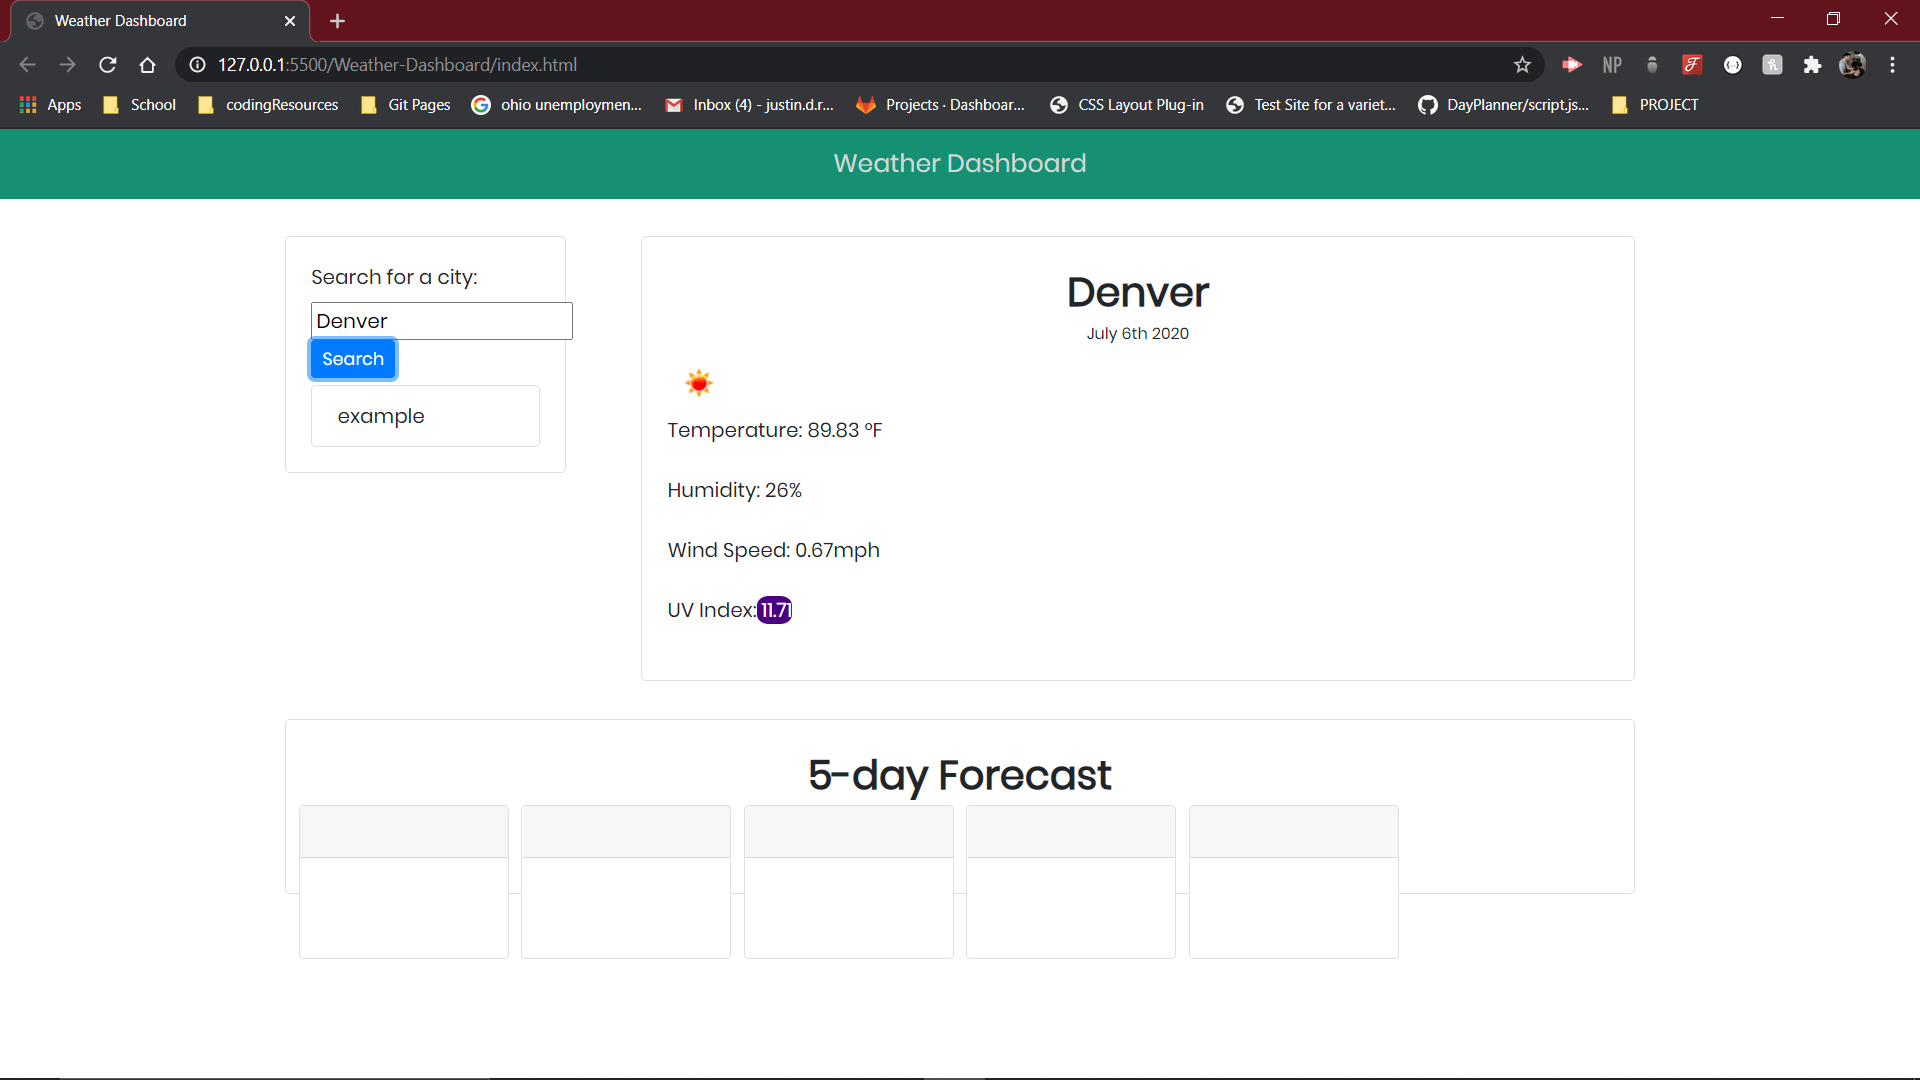
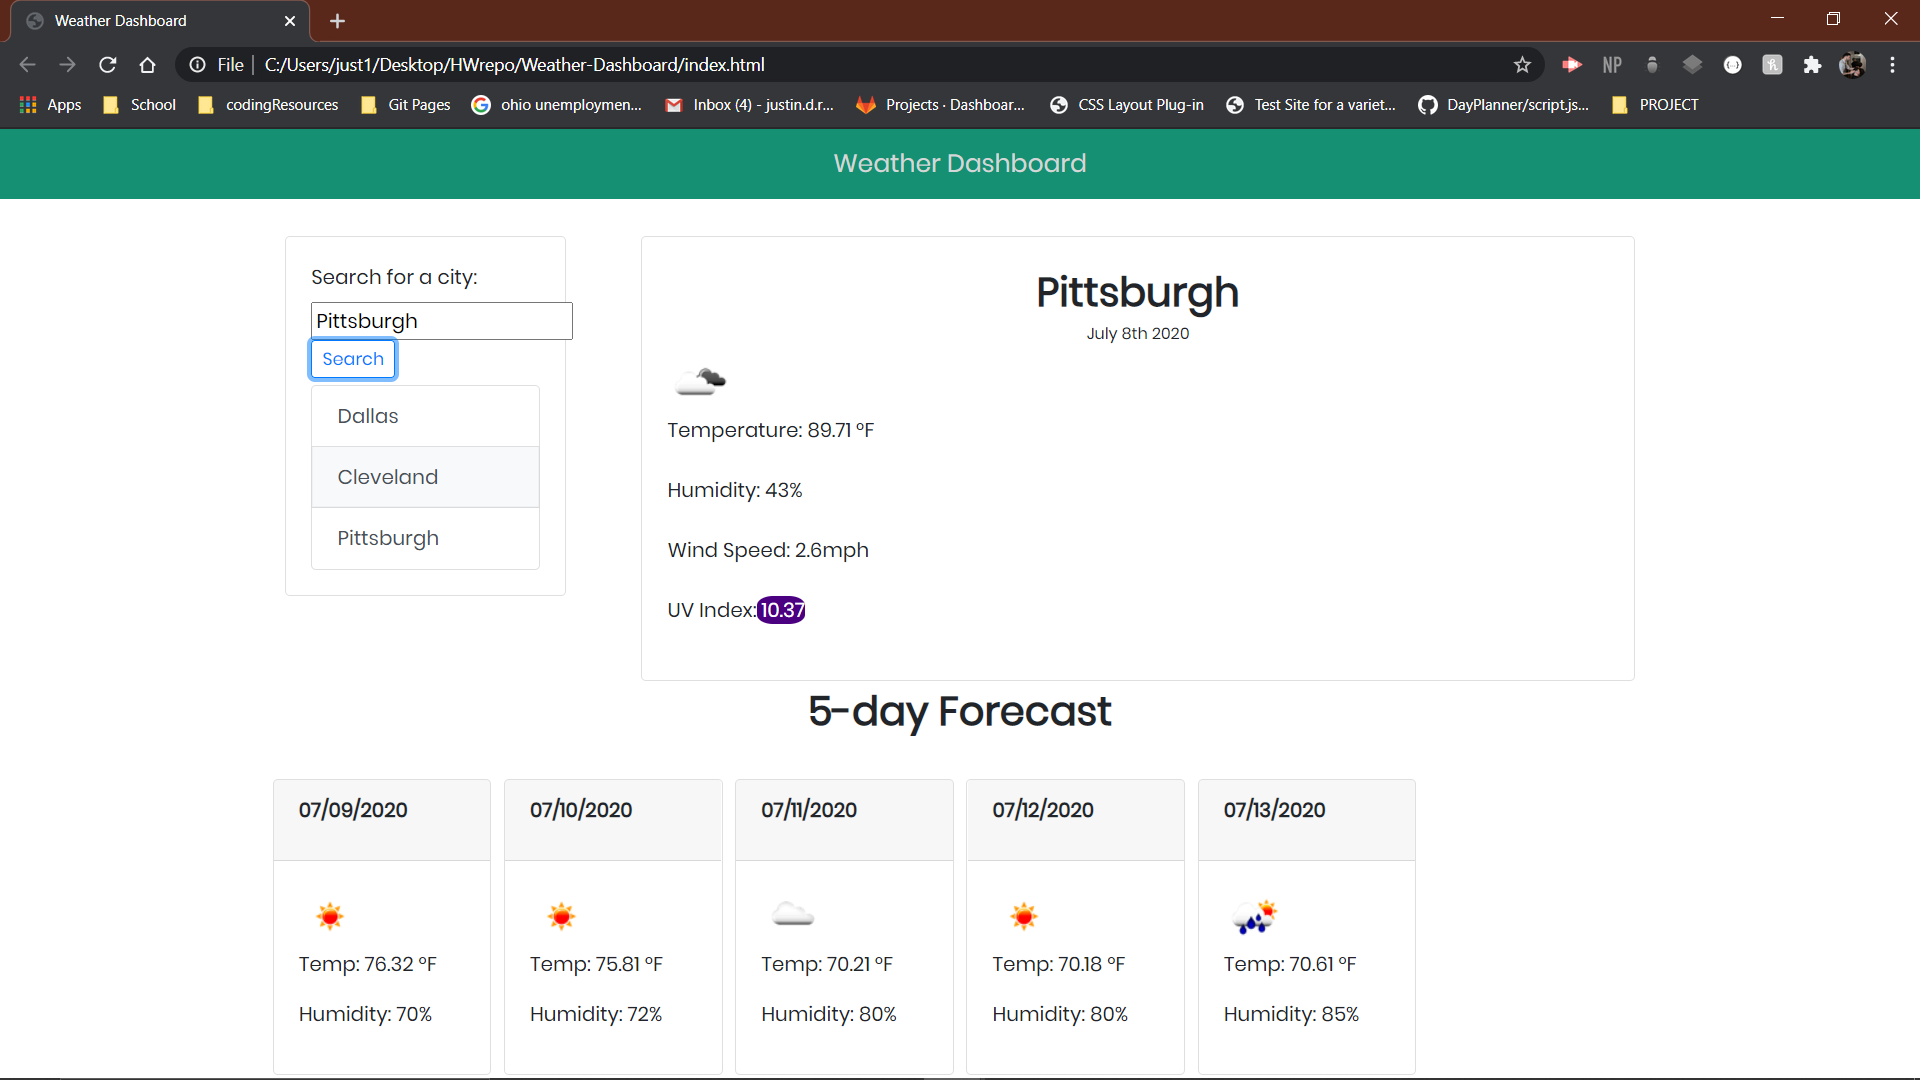
Amended the readme --- fixed issues related to saved searches --- responsiveness needs fine-tuning

diff --git a/script.js b/script.js
@@ -1,14 +1,19 @@
 $(document).ready(function() {
-    
-    // This function displays the weather to the page.
-    const displayCityWeather = () => {
 
-        // Variables
-        var todaysDate = moment().format('MMMM Do YYYY');
+	var todaysDate = moment().format('MMMM Do YYYY');
+	var cityList = $(".list-group");
+	var cityButtons = [];
+
+    // This function displays the weather to the page.
+    var displayCityWeather = (cityName) => {
+		
+		// Global Variables.
+		//cityName = $("#citySearch").val();
+        
         var apiKey = "561936218884bf45974f29319f32b882";
-        var cityName = $("#citySearch").val();
         var queryWeather = "https://api.openweathermap.org/data/2.5/weather?q="+cityName+"&appid="+apiKey;
-        var queryForecast = "https://api.openweathermap.org/data/2.5/forecast?q="+cityName+"&appid="+apiKey;
+		var queryForecast = "https://api.openweathermap.org/data/2.5/forecast?q="+cityName+"&appid="+apiKey;
+		
 
         // This ajax call is used to gather weather data from an API and display it to the page.
         $.ajax({
@@ -87,7 +92,7 @@ $(document).ready(function() {
             url: queryForecast,
             method: "GET"
         }).then(function(responseForecast) {
-						//console.log(responseForecast);
+						console.log(responseForecast);
 
 						//This sets the date for corresponding days to variables.
 						var date1 = moment().add(1, 'days').format("MM/DD/YYYY");
@@ -97,11 +102,11 @@ $(document).ready(function() {
 						var date5 = moment().add(5, 'days').format("MM/DD/YYYY");
 
 						//This sets icons for corresponding days to variables.
-						var icon1 = "https://openweathermap.org/img/w/"+responseForecast.weather[4].icon+".png";
-						var icon2 = "https://openweathermap.org/img/w/"+responseForecast.weather[12].icon+".png";
-						var icon3 = "https://openweathermap.org/img/w/"+responseForecast.weather[20].icon+".png";
-						var icon4 = "https://openweathermap.org/img/w/"+responseForecast.weather[28].icon+".png";
-						var icon5 = "https://openweathermap.org/img/w/"+responseForecast.weather[36].icon+".png";
+						var icon1 = "https://openweathermap.org/img/w/"+responseForecast.list[4].weather[0].icon+".png";
+						var icon2 = "https://openweathermap.org/img/w/"+responseForecast.list[12].weather[0].icon+".png";
+						var icon3 = "https://openweathermap.org/img/w/"+responseForecast.list[20].weather[0].icon+".png";
+						var icon4 = "https://openweathermap.org/img/w/"+responseForecast.list[28].weather[0].icon+".png";
+						var icon5 = "https://openweathermap.org/img/w/"+responseForecast.list[36].weather[0].icon+".png";
 
 						//This sets temperature for corresponding days to variables.
 						var temp1 = `Temp: ${(((responseForecast.list[4].main.temp - 273.15) * 1.80 + 32).toFixed(2))} °F`;
@@ -125,11 +130,11 @@ $(document).ready(function() {
 						$("#date5").text(date5);
 						
 						//This displays icons for corresponding days to the page.
-						$("#icon1").attr("src", icon1).attr("alt", responseWeather.weather[4].description)
-						$("#icon2").attr("src", icon2).attr("alt", responseWeather.weather[12].description)
-						$("#icon3").attr("src", icon3).attr("alt", responseWeather.weather[20].description)
-						$("#icon4").attr("src", icon4).attr("alt", responseWeather.weather[28].description)
-						$("#icon5").attr("src", icon5).attr("alt", responseWeather.weather[36].description)
+						$("#icon1").attr("src", icon1).attr("alt", responseForecast.list[4].weather[0].description);
+						$("#icon2").attr("src", icon2).attr("alt", responseForecast.list[12].weather[0].description);
+						$("#icon3").attr("src", icon3).attr("alt", responseForecast.list[20].weather[0].description);
+						$("#icon4").attr("src", icon4).attr("alt", responseForecast.list[28].weather[0].description);
+						$("#icon5").attr("src", icon5).attr("alt", responseForecast.list[36].weather[0].description);
 
 						//This displays temperature for corresponding days to the page.
 						$("#temp1").text(temp1);
@@ -146,19 +151,68 @@ $(document).ready(function() {
 						$("#hum5").text(hum5);
 		});
 
-		// This is the function that saves recent searches.
-		const saveWeaterData = () => {
-			var cityList = $(".list-group");
+		
+		
+	};
 
-		};
+	// This function gets array of cities searched from local storage.
+	getCities = () => {
+        var storedCities = localStorage.getItem("Cities Searched For");
+
+        if (storedCities) {
+			cityButtons = JSON.parse(storedCities);
+			
+			renderCityBtn();
+			displayCityWeather(cityButtons[0]);
+		}
+		
+    }
+
+	// This function renders a button for each searched city.
+	const renderCityBtn = () => {
+
+		// This deletes cities prior to adding new ones.
+		$("#cityList").empty();
+
+		// This loops through array of cities.
+		for (var i = 0; i < cityButtons.length; i++){
+
+			var ctyBtn = $("<button>");
+
+			ctyBtn.attr("type", "button");
+			ctyBtn.attr("class", "list-group-item list-group-item-action cityButton");
+			ctyBtn.attr("data-cityName", cityButtons[i]);
+			ctyBtn.text(cityButtons[i])
+
+			$(cityList).append(ctyBtn);
+		}
+
+		// This sets the array of cities into local storage.
+		localStorage.setItem("Cities Searched For", JSON.stringify(cityButtons));
+
 	};
 
 	// This is a click event that runs the above functions when the search button is clicked.
     $("#searchBtn").on("click",function(event){
-        event.preventDefault();
-        displayCityWeather();
-    });
+		//event.preventDefault();
 
+		var cityName = $("#citySearch").val();
+		
+		// This adds city that was searched to an array.
+		cityButtons.push(cityName);
+
+		console.log(cityButtons);
+
+
+		renderCityBtn();
+		displayCityWeather(cityName);
+	});
+	
+	$(document).on("click", ".cityButton", function() {
+		displayCityWeather($(this).attr("data-cityName"));
+	});
+
+	getCities();
 
 });
 

diff --git a/index.html b/index.html
@@ -27,9 +27,8 @@
                 <input type="text" id="citySearch" name="citySearch" placeholder="Enter City">
                 <button type="button" class="btn btn-sm btn-outline-primary" id="searchBtn">
                   <span class="fa fa-search"></span>Search</button>
-                <ul class="list-group">
-                  <li class="list-group-item">example</li>
-                </ul>
+                <div class="list-group" id="cityList">
+                </div>
               </div>
             </div>
           </div>
@@ -56,72 +55,68 @@
         </div>
       </div>
     <!--5-day Forecast-->
+    <div class="forecast">5-day Forecast</div>
       <div class="row">
         <div class="col-md-12">
           <div class="container days">
-            <div class="card">
-              <div class="card-body">
-                <div class="forecast">5-day Forecast</div>
-                <div class="row">
-                    <div class="col-md-2 day">
-                      <div class="card">
-                        <div class="card-header">
-                          <p><strong  id="date1"></strong></p>
-                        </div>
-                        <div class="card-body" id="day1">
-                          <img id="icon1">
-                          <p id="temp1"></p>
-                          <p id="hum1"></p>
-                        </div>
-                      </div>
+            <div class="row">
+                <div class="col-md-2 day">
+                  <div class="card">
+                    <div class="card-header">
+                      <p><strong id="date1"></strong></p>
                     </div>
-                    <div class="col-md-2 day">
-                      <div class="card">
-                        <div class="card-header">
-                          <p><strong id="date2"></strong></p>
-                        </div>
-                        <div class="card-body" id="day2">
-                          <img id="icon2">
-                          <p id="temp2"></p>
-                          <p id="hum2"></p>
-                        </div>
-                      </div>
+                    <div class="card-body" id="day1">
+                      <img id="icon1">
+                      <p id="temp1"></p>
+                      <p id="hum1"></p>
                     </div>
-                    <div class="col-md-2 day">
-                      <div class="card">
-                        <div class="card-header">
-                          <p><strong id="date3"></strong></p>
-                        </div>
-                        <div class="card-body" id="day3">
-                          <img id="icon3">
-                          <p id="temp3"></p>
-                          <p id="hum3"></p>
-                        </div>
-                      </div>
+                  </div>
+                </div>
+                <div class="col-md-2 day">
+                  <div class="card">
+                    <div class="card-header">
+                      <p><strong id="date2"></strong></p>
                     </div>
-                    <div class="col-md-2 day">
-                      <div class="card">
-                        <div class="card-header">
-                          <p><strong id="date4"></strong></p>
-                        </div>
-                        <div class="card-body" id="day4">
-                          <img id="icon4">
-                          <p id="temp4"></p>
-                          <p id="hum4"></p>
-                        </div>
-                      </div>
+                    <div class="card-body" id="day2">
+                      <img id="icon2">
+                      <p id="temp2"></p>
+                      <p id="hum2"></p>
                     </div>
-                    <div class="col-md-2 day">
-                      <div class="card">
-                        <div class="card-header">
-                          <p><strong id="date5"></strong></p>
-                        </div>
-                        <div class="card-body" id="day5">
-                          <img id="icon5">
-                          <p id="temp5"></p>
-                          <p id="hum5"></p>
-                        </div>
-                      </div>
+                  </div>
+                </div>
+                <div class="col-md-2 day">
+                  <div class="card">
+                    <div class="card-header">
+                      <p><strong id="date3"></strong></p>
+                    </div>
+                    <div class="card-body" id="day3">
+                      <img id="icon3">
+                      <p id="temp3"></p>
+                      <p id="hum3"></p>
+                    </div>
+                  </div>
+                </div>
+                <div class="col-md-2 day">
+                  <div class="card">
+                    <div class="card-header">
+                      <p><strong id="date4"></strong></p>
+                    </div>
+                    <div class="card-body" id="day4">
+                      <img id="icon4">
+                      <p id="temp4"></p>
+                      <p id="hum4"></p>
+                    </div>
+                  </div>
+                </div>
+                <div class="col-md-2 day">
+                  <div class="card">
+                    <div class="card-header">
+                      <p><strong id="date5"></strong></p>
+                    </div>
+                    <div class="card-body" id="day5">
+                      <img id="icon5">
+                      <p id="temp5"></p>
+                      <p id="hum5"></p>
                     </div>
                   </div>
                 </div>

diff --git a/README.md b/README.md
@@ -1,1 +1,10 @@
-# Weather-Dashboard
+# Weather-Dashboard __*Weather Dashboard*__
+
+## __Detials About This Assignment__
+The purpose of this homework assignment was to use the OpenWeather API to retrieve weather data for cities and display it to a user in an organized and concise manner, using icons and labels to specify conditions.  Then, to use localStorage to store persistent data for later viewing.
+
+### __Link To Website__
+https://jdouglasr.github.io/Weather-Dashboard/
+
+### __Image of 'index.html'__
+![index.html](/img/weather-dashboard.png)
